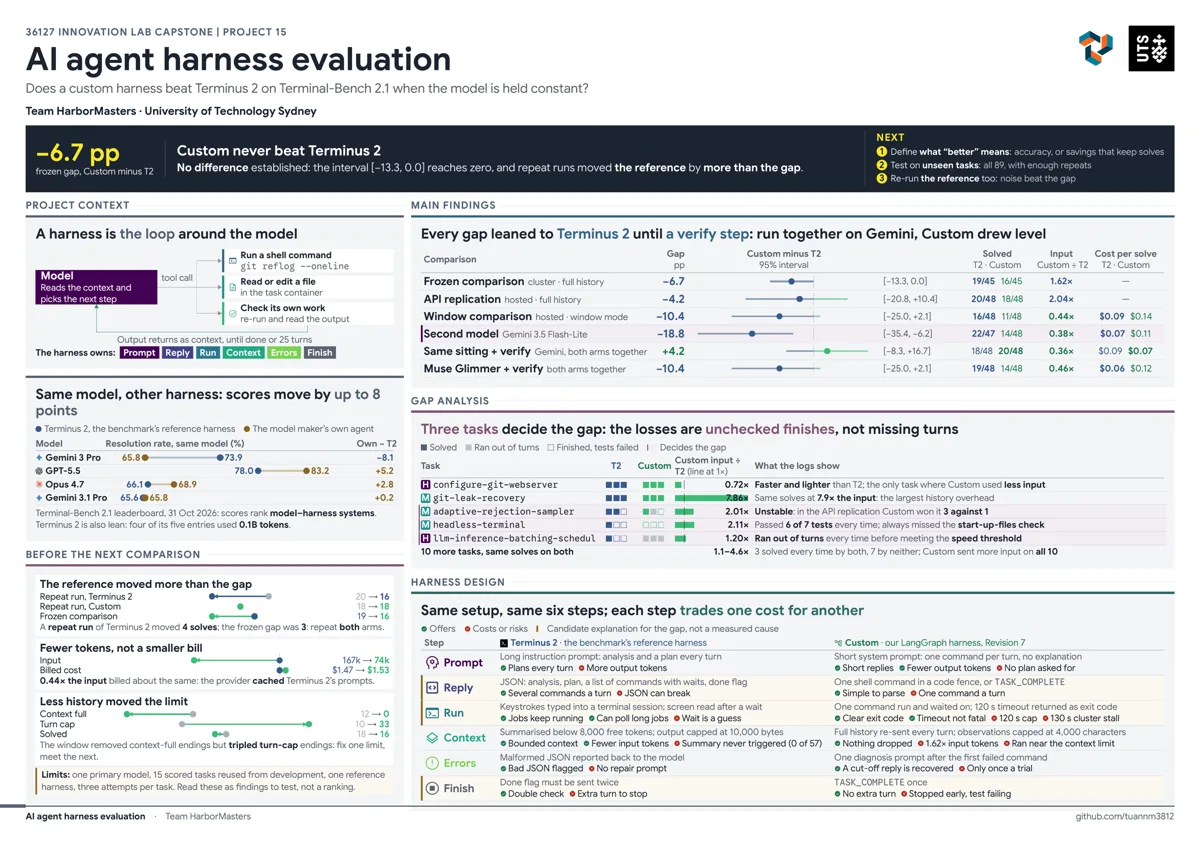
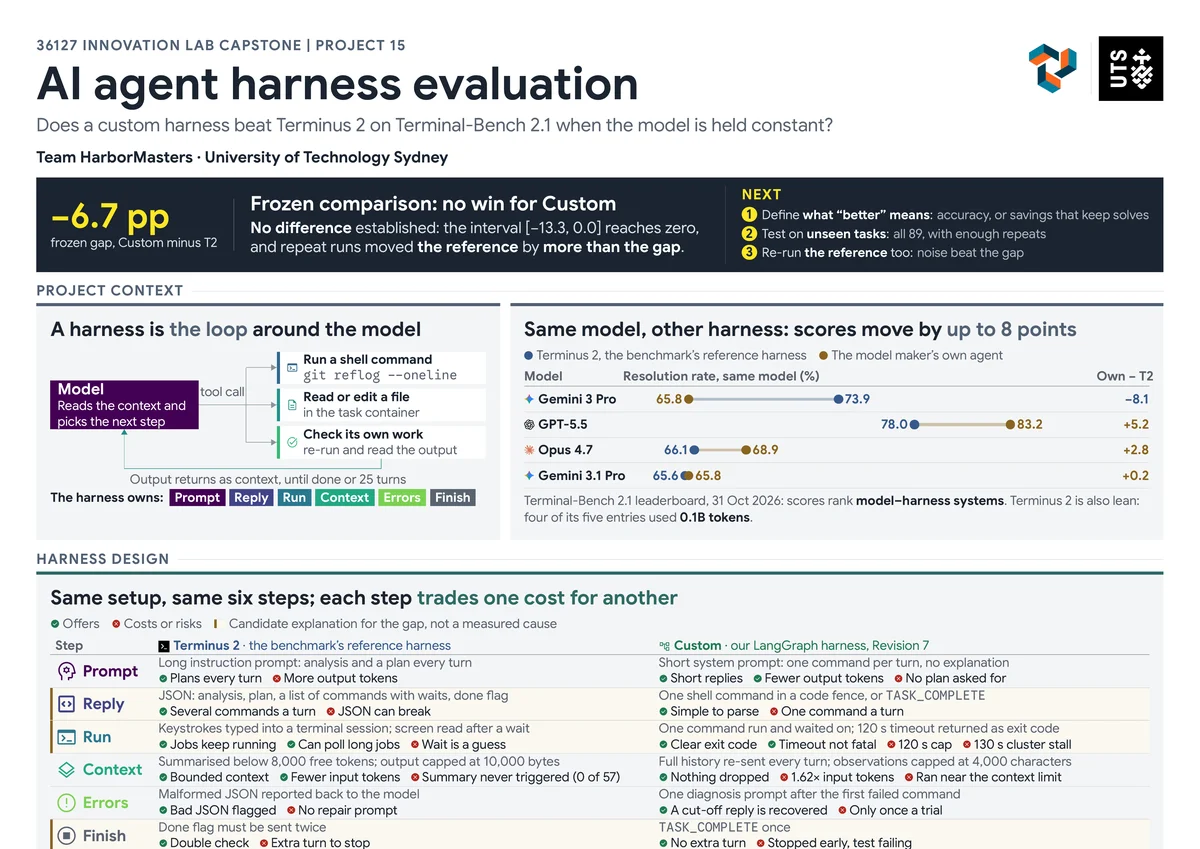
Projects: use the 21 Nov HarborMasters poster
Mike approved the poster with the client logo beside the UTS logo (22 Nov);
its text names no client. Thumbnail is its top section.

Claude-Session: https://claude.ai/code/session_01HYNExY8VKm7AxWWm5ZrqxB

diff --git a/src/data/selectedWork.ts b/src/data/selectedWork.ts
@@ -51,7 +51,7 @@ export const selectedWork: SelectedWork[] = [
     role: 'Lead AI Engineer',
     thumb: '/assets/posters/harness-thumb.webp',
     poster: '/assets/posters/harness.jpg',
-    alt: 'Poster: Same model, different harness, an AI agent harness evaluation on Terminal-Bench',
+    alt: 'Poster: AI agent harness evaluation, does a custom harness beat Terminus 2 when the model is held constant?',
     question:
       'Can a custom agent harness beat Terminus 2 on Terminal-Bench when [[the model stays the same]]?',
     built:

diff --git a/docs/08-agent-collaboration-log.md b/docs/08-agent-collaboration-log.md
@@ -62,7 +62,8 @@ what should not be touched.
 - New covers (22 Nov, from Mike's Mac): Text-to-SQL thumbnail is the UTS deck
   cover; AI Meal Planner poster and thumbnail are the new project poster;
   Dinksight gets its poster (thumb + Poster link). The new harness deck cover
-  names the client, so the harness keeps its old thumbnail.
+  names the client, so the harness uses its 21 Nov poster instead (client logo
+  only, approved by Mike 22 Nov).
 - Verified: `npm run check` passes; Home, Projects and Experience checked in a browser.
 - Transit copy says what the project is building, not its day-to-day progress
   (Mike, 21 Nov); add results when he says a phase is complete.
